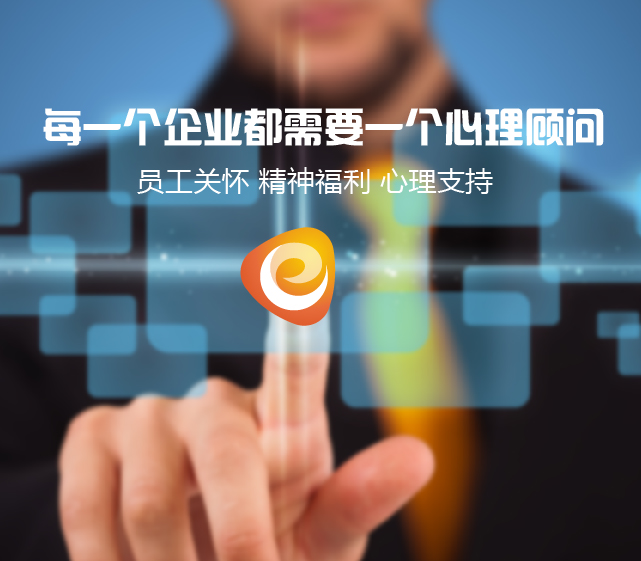
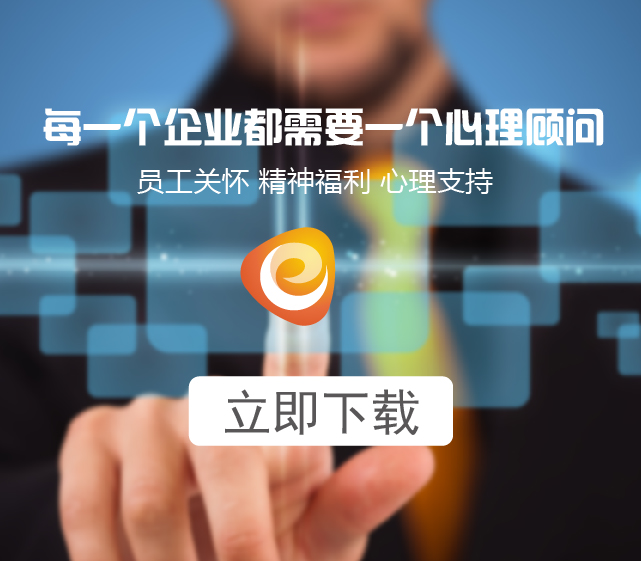
下载页面修改UI 16.02.01-b

Changed region(s): [[0.2808, 0.6667, 0.7176, 0.8182]]

diff --git a/home/index.html b/home/index.html
@@ -49,26 +49,6 @@
                 </a>
                     <img src="./images/qr.png"      style="top:220px; left:620px;" class="qr">
             </span>
-            <span class="img">
-                <img src="./images/banner-3.jpg" alt="心灵e站是一款通过手机APP将专业的心理服务与关爱传递给个人，为企业员工提供心理测试、情绪调频、专业咨询等便捷易用的心理服务，让每一位员工拥有专属的私人心理顾问。">
-                <a href="http://www.ydeap.com/download.jsp">
-                    <img src="./images/b3-a.png"    style="top:230px; left:460px;" class="android">
-                </a>
-                <a href="http://www.ydeap.com/download.jsp?ua=ios">
-                    <img src="./images/b3-i.png"    style="top:290px; left:460px;" class="ios">
-                </a>
-                    <img src="./images/qr.png"      style="top:220px; left:620px;" class="qr">
-            </span>
-            <span class="img">
-                <img src="./images/banner-4.jpg" alt="私人心理顾问">
-                <a href="http://www.ydeap.com/download.jsp">
-                    <img src="./images/b4-a.png"    style="top:230px; left:460px;" class="android">
-                </a>
-                <a href="http://www.ydeap.com/download.jsp?ua=ios">
-                    <img src="./images/b4-i.png"    style="top:290px; left:460px;" class="ios">
-                </a>
-                    <img src="./images/qr.png"      style="top:220px; left:620px;" class="qr">
-            </span>
         </div>
     </div>
     <div class="line"></div>

diff --git a/home/index-m.html b/home/index-m.html
@@ -21,8 +21,6 @@
         <a href="#">
             <img data-num="0" src="./imgs/banner-1.jpg" alt="企业心理顾问">
             <img data-num="1" src="./imgs/banner-2.jpg" alt="心理服务">
-            <img data-num="2" src="./imgs/banner-3.jpg" alt="心灵e站是一款通过手机APP将专业的心理服务与关爱传递给个人，为企业员工提供心理测试、情绪调频、专业咨询等便捷易用的心理服务，让每一位员工拥有专属的私人心理顾问。">
-            <img data-num="3" src="./imgs/banner-4.jpg" alt="私人心理顾问">
         </a>
     </div>
     <div class="pos">

diff --git a/app/js/config.js b/app/js/config.js
@@ -166,7 +166,10 @@ function fmtTime(time,fmt){
             },
             '/search': function () {
                 bmApi.api('title',{title:'音频搜索'});
-                render('fmSearch');
+                ajax('getMusic',{page:1,type:0,property:0,keyWord:'心'},function(res){
+                    console.log(res);
+                });
+                //render('fmSearch');
             }
         },
         '/comment': {

diff --git a/app/tpl/main.min.js b/app/tpl/main.min.js
@@ -587,7 +587,10 @@ function fmtTime(time,fmt){
             },
             '/search': function () {
                 bmApi.api('title',{title:'音频搜索'});
-                render('fmSearch');
+                ajax('getMusic',{page:1,type:0,property:0,keyWord:'心'},function(res){
+                    console.log(res);
+                });
+                //render('fmSearch');
             }
         },
         '/comment': {
